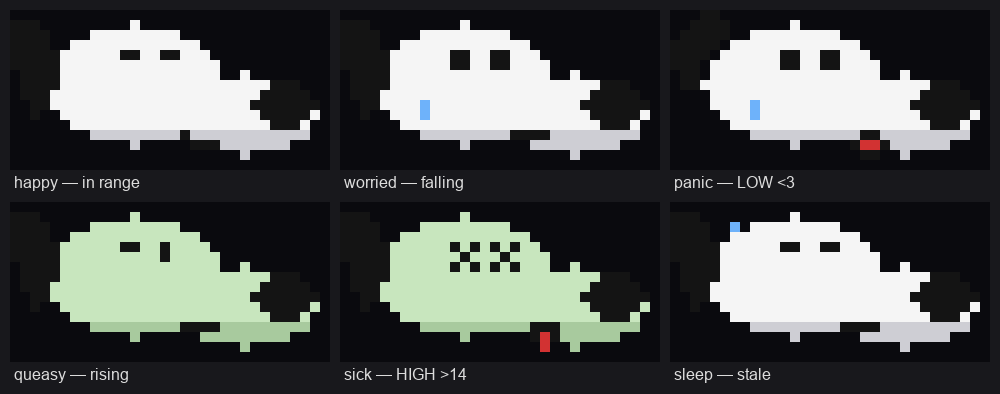
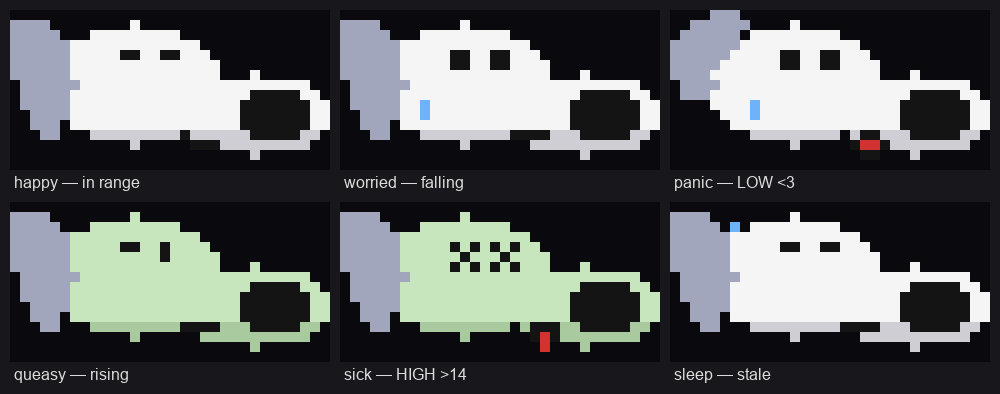
Snobben: bigger nose (with white ring) and larger, brighter ear
Make the two signature features read clearly on the LED: enlarge the snout nose
and extend the snout so it keeps a lit white ring around the black nose; make the
ear bigger and a brighter grey. Regenerated pack GIFs + mug mockups + overview.

diff --git a/src/gen-snobben.ts b/src/gen-snobben.ts
@@ -17,7 +17,7 @@ const W = 32, H = 16;
 // but the ear sits on the background, so it uses a lit dark-gray ('E') instead.
 const PALETTE: [number, number, number][] = [
   [10, 10, 14], [245, 245, 245], [20, 20, 20], [206, 206, 212],
-  [210, 50, 50], [200, 230, 190], [168, 202, 158], [110, 178, 250], [118, 120, 132],
+  [210, 50, 50], [200, 230, 190], [168, 202, 158], [110, 178, 250], [162, 166, 188],
 ];
 const CH: Record<string, number> = { B: 2, W: 1, R: 4, V: 7, E: 8 };
 const blank = () => new Uint8Array(W * H).fill(0);
@@ -35,7 +35,7 @@ function head(green = false, dx = 0): Uint8Array {
   const f = blank();
   const base = green ? 5 : 1, sh = green ? 6 : 3;
   ellipse(f, 12, 7, 9, 6, base, dx); // skull
-  ellipse(f, 23, 10, 7, 4, base, dx); // snout
+  ellipse(f, 24, 10, 8, 4, base, dx); // snout (extended right so the nose gets a white ring)
   for (let y = 12; y < H; y++)
     for (let x = 0; x < W; x++) if (f[y * W + x] === base) f[y * W + x] = sh;
   return f;
@@ -49,10 +49,16 @@ function stamp(f: Uint8Array, x: number, y: number, s: string[], dx = 0) {
   }
 }
 
-// long floppy ear at the back (left). Uses 'E' (lit dark-gray) so it shows on the
-// mug's LED screen instead of vanishing into the black background.
-const EAR = ["EEE..", "EEEE.", "EEEE.", "EEEEE", "EEEEE", ".EEEE", ".EEEE", ".EEE.", "..EE.", "..E.."];
-const EAR_UP = ["...EE", "..EEEE", ".EEEEE", "EEEEE.", "EEEE..", "EEE...", ".EE...", ".EE..."];
+// long floppy ear at the back (left). Uses 'E' (lit grey) so it shows on the
+// mug's LED screen instead of vanishing into the black background. Bigger = clearer.
+const EAR = [
+  "EEEE...", "EEEEE..", "EEEEEE.", "EEEEEE.", "EEEEEE.",
+  "EEEEEE.", ".EEEEEE", ".EEEEE.", ".EEEEE.", "..EEEE.", "..EEE..", "...EE..",
+];
+const EAR_UP = [
+  "....EEE", "..EEEEEE", ".EEEEEE.", "EEEEEEE.", "EEEEEE..",
+  "EEEEE...", "EEEE....", ".EEEE...", ".EEE....",
+];
 
 const EYE = ["B", "B"];
 const EYE_HAPPY = ["BB"];      // content squint
@@ -66,7 +72,7 @@ const MOUTH_TONGUE = ["BBB", "BRB", ".R."];
 const SWEAT = ["V", "V"];
 
 type Expr = "happy" | "worried" | "panic" | "queasy" | "sick" | "sleep";
-const nose = (f: Uint8Array, dx = 0) => ellipse(f, 27, 9, 3, 2.6, 2, dx);
+const nose = (f: Uint8Array, dx = 0) => ellipse(f, 26, 10, 3.6, 2.8, 2, dx); // bigger snout nose
 const ear = (f: Uint8Array, up = false, dx = 0) => stamp(f, 0, up ? 0 : 1, up ? EAR_UP : EAR, dx);
 const eyes = (f: Uint8Array, l: string[], r: string[], dx = 0) => { stamp(f, 11, 4, l, dx); stamp(f, 15, 4, r, dx); };
 
